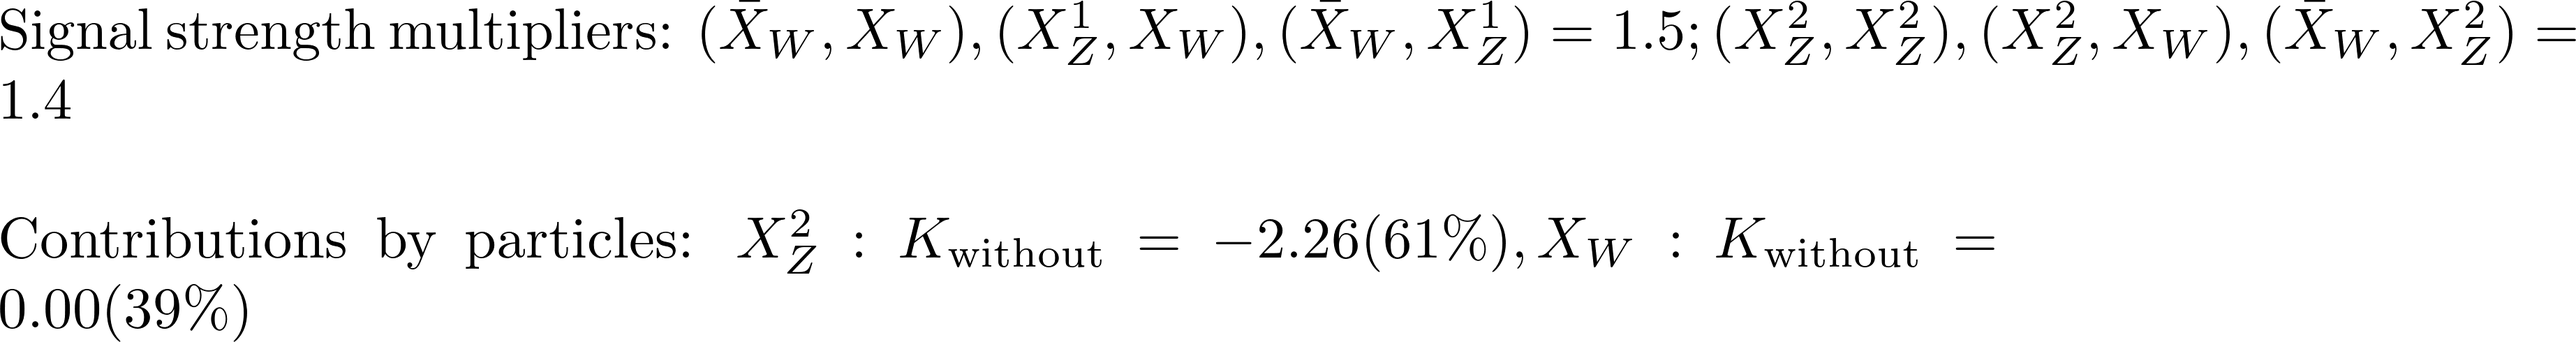
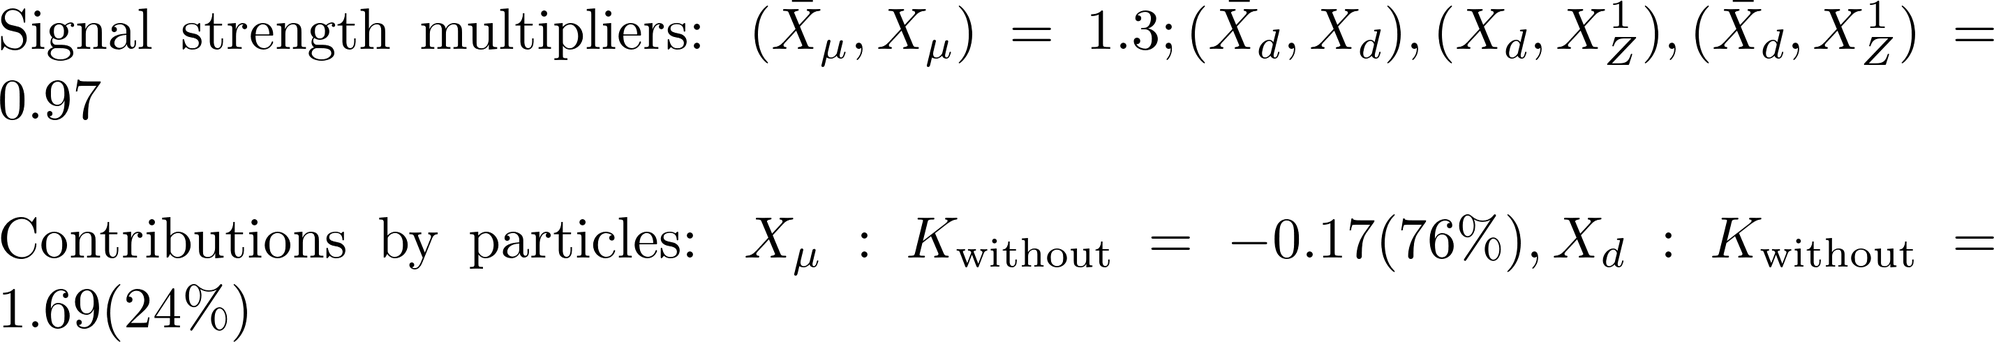
automated update by plotHiscore.py

diff --git a/protomodels/latest/index.html b/protomodels/latest/index.html
@@ -1,28 +1,29 @@
 <html>
 <body>
 <center>
-<table><td><h1>Current best protomodel: K=5.66</h1><td><img height=60px src=https://smodels.github.io/pics/banner.png></table>
+<table><td><h1>Current best protomodel: K=10.35</h1><td><img height=60px src=https://smodels.github.io/pics/banner.png></table>
 </center>
-<b><a href=./hiscore.slha>ProtoModel</a> <a href=./pmodel.py>(dict)</a> produced with <a href=https://smodels.github.io/docs/Validation124fake47>database v1.2.4fake47</a>, combination strategy <a href=./matrix_aggressive.png>aggressive</a> in walker 0 step 270.</b> K plots for: <a href=./M1000022.png?8268751>X<sub>Z</sub><sup>1</sup></a>, <a href=./M2000005.png?8268751>X<sub>b</sub><sup>2</sup></a>, <a href=./M1000005.png?8268751>X<sub>b</sub></a>. HPD plots for: <a href=./llhd2000005.png?8268751>X<sub>b</sub><sup>2</sup></a>, <a href=./llhd1000005.png?8268751>X<sub>b</sub></a>. SSM plots for: <br>
+<b><a href=./hiscore.slha>ProtoModel</a> <a href=./pmodel.py>(dict)</a> produced with <a href=https://smodels.github.io/docs/Validation124fake49>database v1.2.4fake49</a>, combination strategy <a href=./matrix_aggressive.png>aggressive</a> in walker 36 step 836.</b> K plots for: <a href=./M1000022.png?8268858>X<sub>Z</sub><sup>1</sup></a>, <a href=./M1000004.png?8268858>X<sub>c</sub></a>, <a href=./M1000006.png?8268858>X<sub>t</sub></a>. HPD plots for: <a href=./llhd1000004.png?8268858>X<sub>c</sub></a>, <a href=./llhd1000006.png?8268858>X<sub>t</sub></a>. SSM plots for: <a href=./ssm_-1000006_1000006.png?8268858>(x&#772;<sub>t</sub>,X<sub>t</sub>)</a><br>
 <table width=80%>
 <tr><td>
-<br><b>9 predictions available. Highest r values are:</b><br><ul>
-<li>ATLAS-SUSY-2013-21:T2bb r=0.77, r<sub>exp</sub>=N/A<br>
-<li>CMS-SUS-16-033:T2bb r=0.71, r<sub>exp</sub>=N/A<br>
-<li>CMS-SUS-19-006:T2bb r=0.69, r<sub>exp</sub>=N/A<br>
-<li>CMS-SUS-13-012:T2bb r=0.61, r<sub>exp</sub>=N/A<br>
-<li>CMS-SUS-16-036:T2bb r=0.59, r<sub>exp</sub>=N/A<br>
+<br><b>15 predictions available. Highest r values are:</b><br><ul>
+<li>CMS-SUS-13-019:T2 r=1.30, r<sub>exp</sub>=N/A<br>
+<li>CMS-SUS-13-012:T2 r=1.28, r<sub>exp</sub>=0.73<br>
+<li>ATLAS-SUSY-2013-02:T2 r=1.19, r<sub>exp</sub>=0.91<br>
+<li>ATLAS-SUSY-2013-02:T2 r=0.99, r<sub>exp</sub>=N/A<br>
+<li>CMS-SUS-16-033:T2 r=0.87, r<sub>exp</sub>=0.87<br>
 </ul>
 <td><br><b>K values without analyses: (contribution)</b><br>
 <ul>
-<li> <a href=>CMS-SUS-19-006</a>: 2.39 (20%)
-<li> <a href=>CMS-SUS-13-012</a>: 0.43 (31%)
-<li> <a href=>ATLAS-SUSY-2013-21</a>: -2.52 (49%)
-<td><img width=600px src=./texdoc.png?1601268751>
-<br><font size=-1>Last updated: Mon Sep 28 06:52:31 2020</font>
+<li> <a href=>CMS-SUS-19-006</a>: 1.47 (22%)
+<li> <a href=>CMS-SUS-12-028</a>: 1.47 (22%)
+<li> <a href=>ATLAS-SUSY-2015-06</a>: 1.12 (23%)
+<li> <a href=>ATLAS-SUSY-2014-03</a>: -3.00 (33%)
+<td><img width=600px src=./texdoc.png?1601268858>
+<br><font size=-1>Last updated: Mon Sep 28 06:54:18 2020</font>
 </table><table style="width:80%">
-<td width=45%><img height=580px src=./ruler.png?1601268751><td width=55%><img height=380px src=./decays.png?1601268751>
-<font size=-3><iframe type="text/html" height="220px" width="100%s" frameborder="0" src="./rawnumbers.html?1601268751"></iframe></font>
+<td width=45%><img height=580px src=./ruler.png?1601268858><td width=55%><img height=380px src=./decays.png?1601268858>
+<font size=-3><iframe type="text/html" height="220px" width="100%s" frameborder="0" src="./rawnumbers.html?1601268858"></iframe></font>
 </table>
 </body>
 </html>

diff --git a/protomodels/latest/rawnumbers.html b/protomodels/latest/rawnumbers.html
@@ -1,7 +1,8 @@
 <table>
 <tr><th>Analysis Name</th><th>Type</th><th>Dataset</th><th>Topos</th><th>Observed</th><th>Expected</th><th>Approx &sigma;</th><th>Particles</th>
 </tr>
-<tr><td>ATLAS-SUSY-2013-21</td><td>em</td> <td>M3</td><td>T2bb</td><td>1966</td><td>1770 +/- 81</td><td style="text-align:right">2.1 &sigma;</td><td style="text-align:right">X<sub>b</sub></td></tr>
-<tr><td>CMS-SUS-13-012</td><td>em</td> <td>3NJet6_1000HT12 ...</td><td>T2bb</td><td>32</td><td>22.8 +/- 5.2</td><td style="text-align:right">1.3 &sigma;</td><td style="text-align:right">X<sub>b</sub></td></tr>
-<tr><td>CMS-SUS-19-006</td><td>ul</td> <td>-</td><td>T2bb</td><td> 2.7 fb </td><td> 1.4 fb</td><td style="text-align:right">1.8 &sigma;</td><td style="text-align:right">X<sub>b</sub><sup>2</sup></td></tr>
+<tr><td>ATLAS-SUSY-2014-03</td><td>em</td> <td>mCT200</td><td>TScharm</td><td>29</td><td>16 +/- 3</td><td style="text-align:right">2.6 &sigma;</td><td style="text-align:right">X<sub>c</sub></td></tr>
+<tr><td>ATLAS-SUSY-2015-06</td><td>em</td> <td>SR4jt</td><td>T2</td><td>1</td><td>4.1 +/- 1.1</td><td style="text-align:right">-1.3 &sigma;</td><td style="text-align:right">X<sub>c</sub></td></tr>
+<tr><td>CMS-SUS-12-028</td><td>ul</td> <td>-</td><td>T2</td><td> 80.3 fb </td><td> 47.1 fb</td><td style="text-align:right">1.4 &sigma;</td><td style="text-align:right">X<sub>c</sub></td></tr>
+<tr><td>CMS-SUS-19-006</td><td>ul</td> <td>-</td><td>T2</td><td> 87.5 fb </td><td> 38.5 fb</td><td style="text-align:right">2.5 &sigma;</td><td style="text-align:right">X<sub>c</sub></td></tr>
 </table>

diff --git a/protomodels/latest/pmodel.py b/protomodels/latest/pmodel.py
@@ -1,1 +1,1 @@
-{'masses': {1000022: 236.533, 1000005: 246.495, 2000005: 1335.008}, 'ssmultipliers': {(1000022, 1000022): 0.0, (1000005, 1000005): 0.61, (-1000005, 1000005): 0.61, (-1000005, -1000005): 0.61, (1000005, 1000022): 0.61, (-1000005, 1000022): 0.61, (2000005, 2000005): 0.647, (-2000005, 2000005): 0.647, (-2000005, -2000005): 0.647, (1000022, 2000005): 0.647, (-2000005, 1000022): 0.647, (1000005, 2000005): 0.647, (-2000005, 1000005): 0.647, (-1000005, 2000005): 0.647, (-2000005, -1000005): 0.647}, 'decays': {1000022: {}, 1000005: {(1000022, 5): 1.0}, 2000005: {(1000022, 5): 1.0}}, 'timestamp': 'Mon Sep 28 06:52:25 2020', 'Z': 3.035, 'K': 5.664, 'step': 270, 'codever': '1.0', 'dbver': '1.2.4fake47'}
+{'masses': {1000022: 78.234, 1000004: 601.96, 1000006: 130.084}, 'ssmultipliers': {(1000022, 1000022): 0.0, (1000004, 1000004): 0.887, (-1000004, 1000004): 0.887, (-1000004, -1000004): 0.0, (1000004, 1000022): 0.887, (-1000004, 1000022): 0.887, (1000006, 1000006): 2.507, (-1000006, 1000006): 2.507, (-1000006, -1000006): 2.507, (1000006, 1000022): 2.507, (-1000006, 1000022): 2.507, (1000004, 1000006): 2.507, (-1000006, 1000004): 2.507, (-1000004, 1000006): 2.507, (-1000006, -1000004): 2.507}, 'decays': {1000022: {}, 1000004: {(1000022, 4): 1.0}, 1000006: {}}, 'timestamp': 'Mon Sep 28 06:54:11 2020', 'Z': 3.654, 'K': 10.348, 'step': 836, 'codever': '1.0', 'dbver': '1.2.4fake49'}
